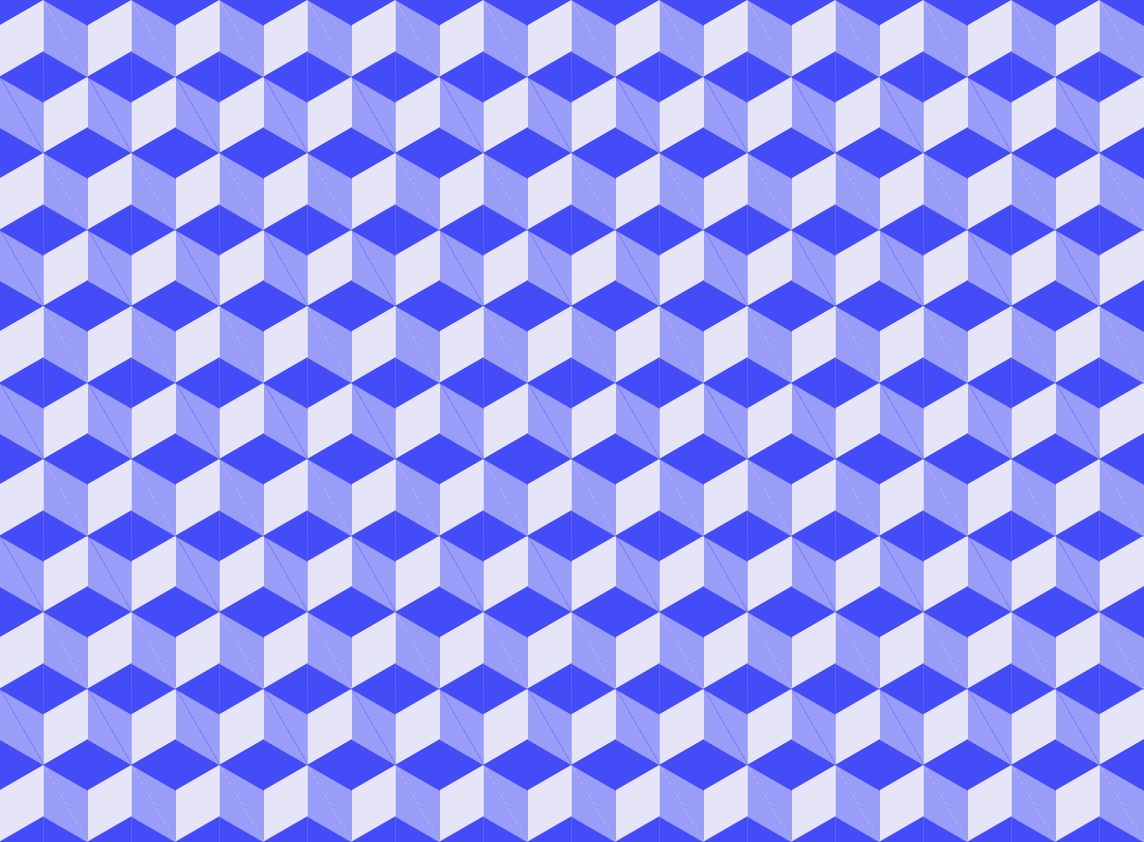
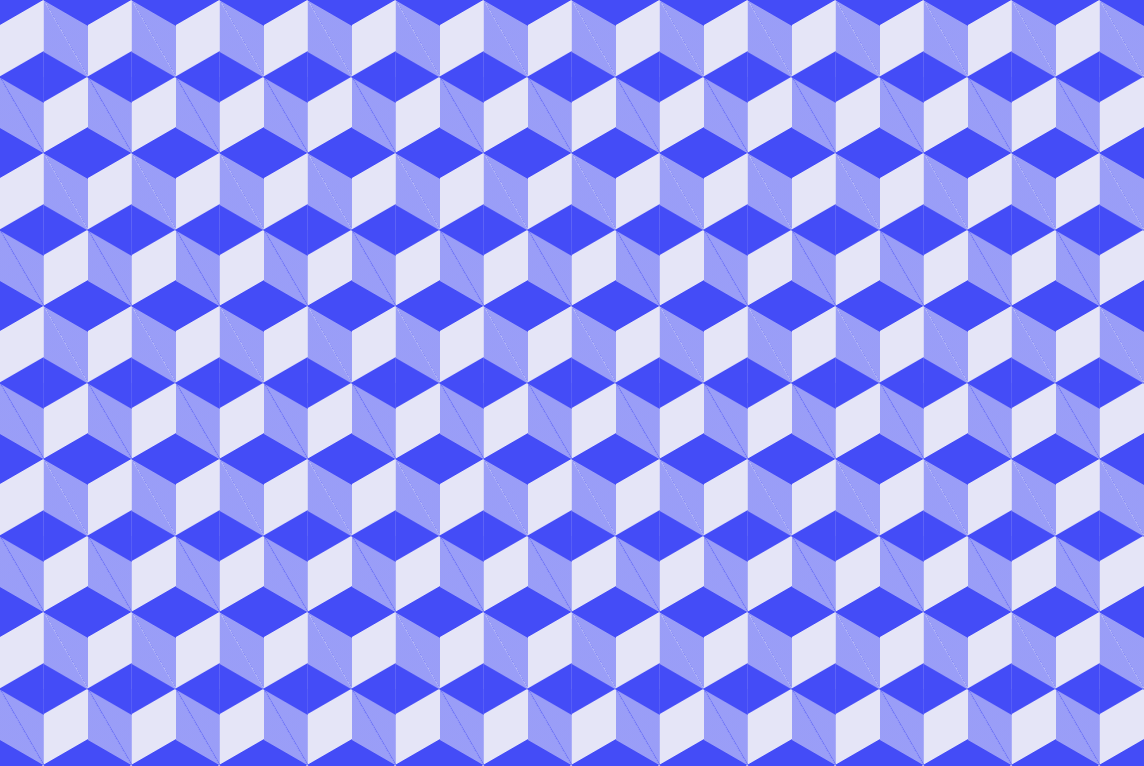
arreglar imagen

diff --git a/Entrega_1/style.css b/Entrega_1/style.css
@@ -4,7 +4,7 @@ body {
     padding: 0;
     /* imagen sacada de https://www.magicpattern.design/tools/css-backgrounds*/
     background-image: url(images/css-pattern-by-magicpattern.png);
-    background-size: 600px;
+    background-size: 400px;
     background-repeat: repeat;
     overflow-x: hidden;
 }
